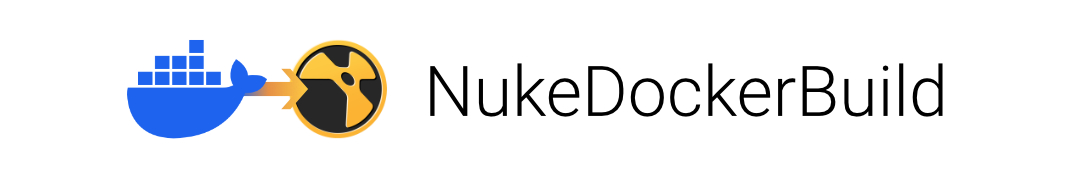
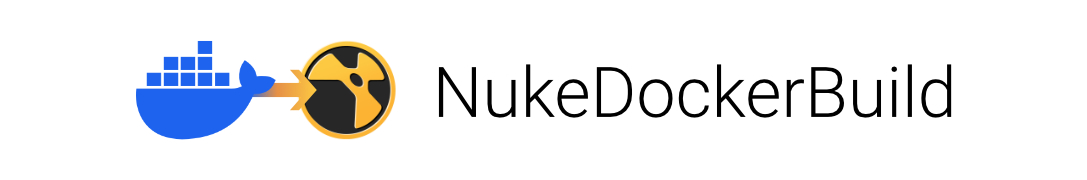
Fix typo and alignment

Changed region(s): [[0.3947, 0.3611, 0.8804, 0.6667], [0.0911, 0.2222, 0.3643, 0.7778]]

diff --git a/README.md b/README.md
@@ -1,7 +1,7 @@
 [![Tests](https://github.com/gillesvink/NukeDockerBuild/actions/workflows/create_dockerfiles.yaml/badge.svg)](https://github.com/gillesvink/NukeDockerBuild/actions/workflows/create_dockerfiles.yaml) [![Linux builds](https://github.com/gillesvink/NukeDockerBuild/actions/workflows/build_linux.yaml/badge.svg)](https://github.com/gillesvink/NukeDockerBuild/actions/workflows/build_linux.yaml) [![Windows builds](https://github.com/gillesvink/NukeDockerBuild/actions/workflows/build_windows.yaml/badge.svg)](https://github.com/gillesvink/NukeDockerBuild/actions/workflows/build_windows.yaml) 
 
 ![NukeDockerBuild](./resources/header.jpg)
-> Ready to use Docker containers to build Nuke plugins for Linux and Windows.
+> Ready to use Docker images to build Nuke plugins for Linux and Windows.
 
 --- 
 The images produced here will include everything you need to build Nuke plugins. This includes the compiler for C++ ([gcc-toolsets](https://access.redhat.com/documentation/en-us/red_hat_developer_toolset/12) on Linux, [Visual Studio](https://visualstudio.microsoft.com/downloads/) on Windows), [CMake](https://cmake.org/) and the Nuke files required to compile.
